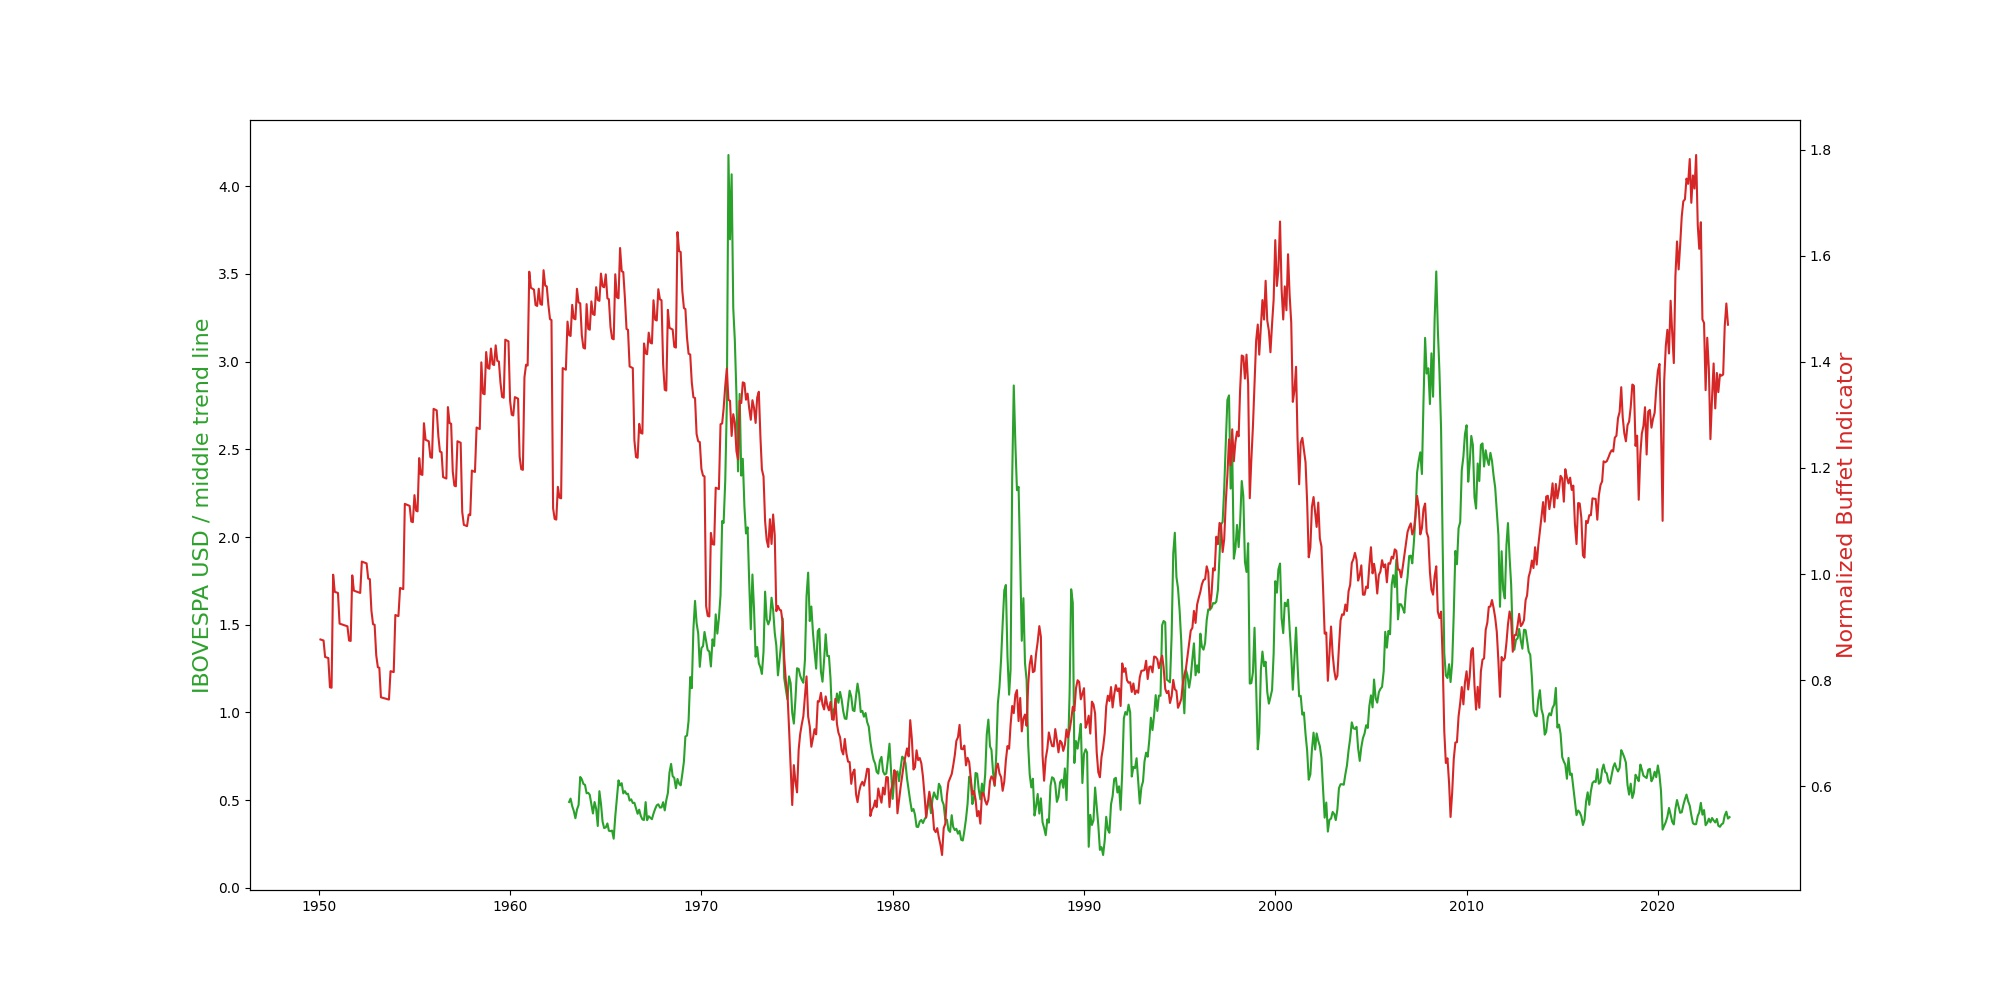
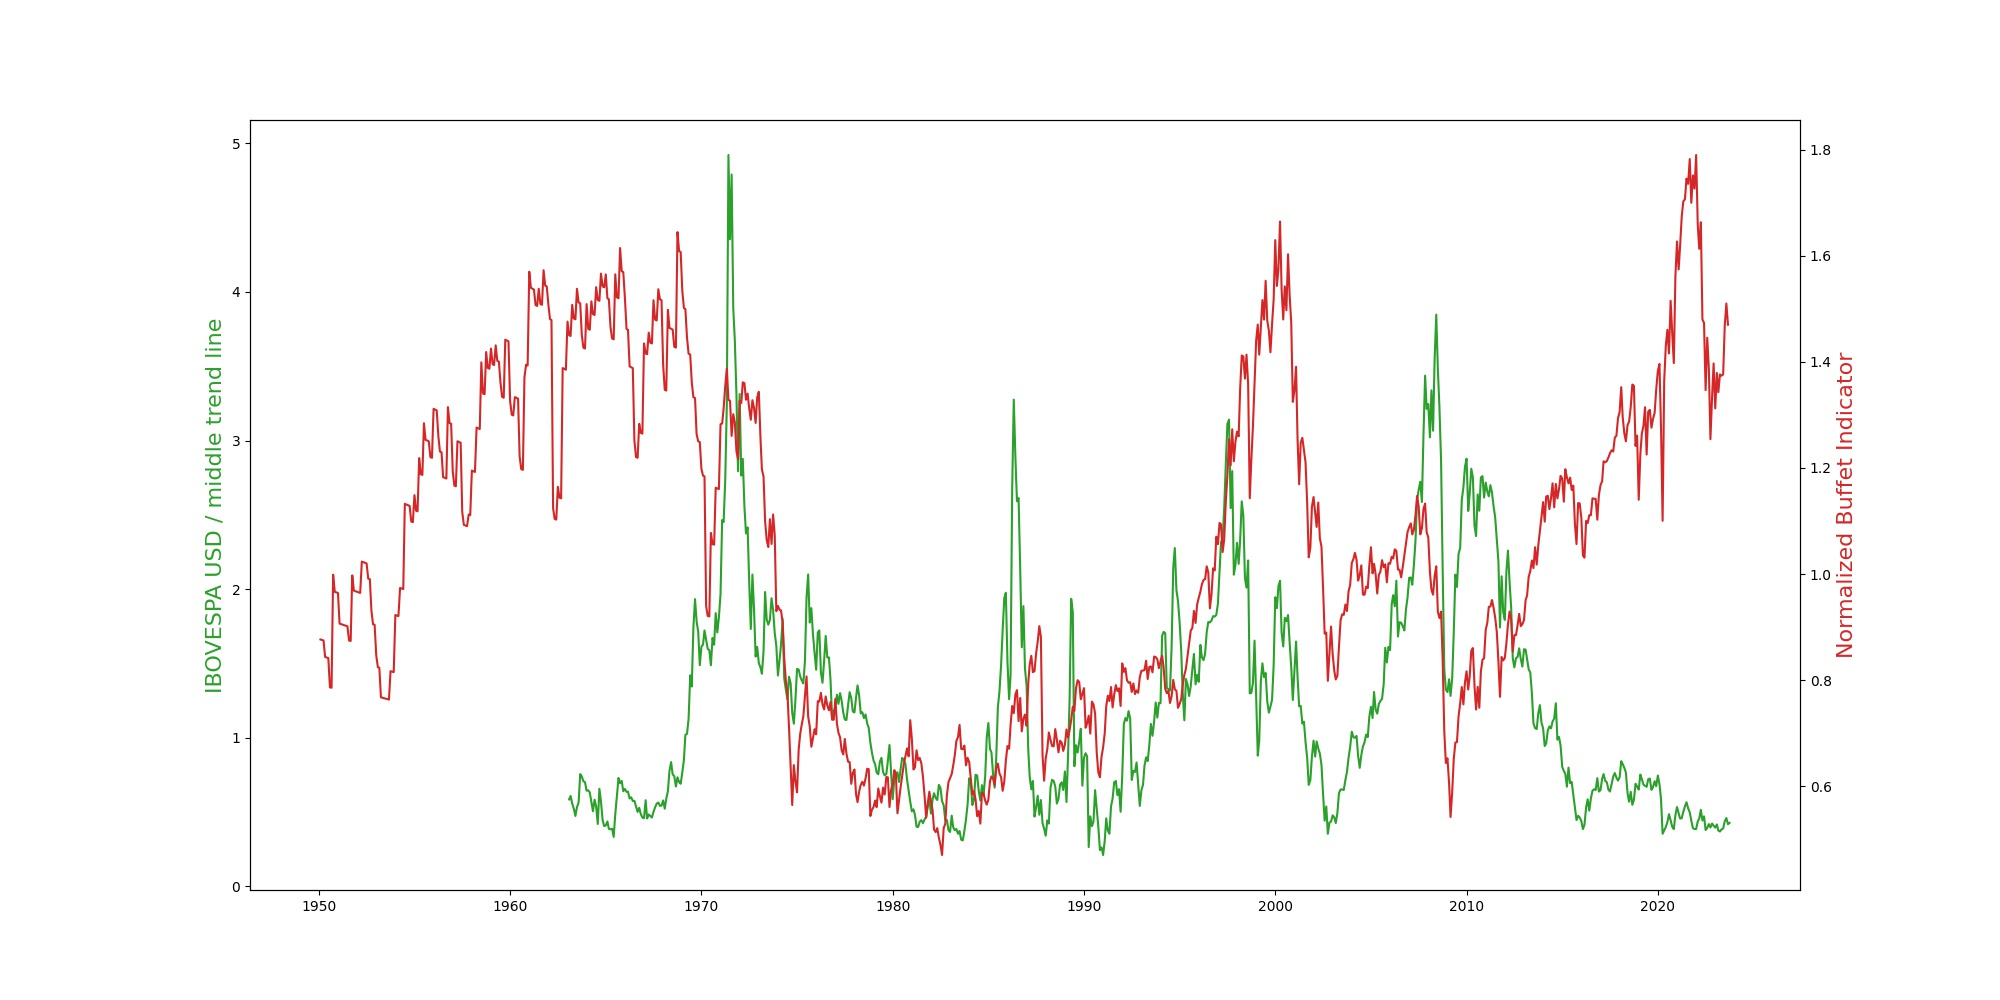
first commit

diff --git a/main.py b/main.py
@@ -1,20 +1,19 @@
 import matplotlib.pyplot as plt
-import numpy as np
 
-from buffet_indicator import get_buffet_indicator_norm
+from buffet_indicator import get_buffet_indicator_norm, get_index_average
 from ibov_usd import get_ibovusd, _get_trend_line
 
 if __name__ == '__main__':
     ibovusd = get_ibovusd()
-    ibovusd_middle_trend_line = _get_trend_line(ibovusd, _type='middle')
+    ibovusd_avg = get_index_average(ibovusd)
     buffet_indicator_norm = get_buffet_indicator_norm()
 
     font_size = 16
 
     fig, ax1 = plt.subplots(figsize=(20, 10))
     color = 'tab:green'
-    text = 'IBOVESPA USD / middle trend line'
-    ax1.plot(ibovusd.index, ibovusd / ibovusd_middle_trend_line, color=color, label=text)
+    text = 'IBOVESPA USD / average'
+    ax1.plot(ibovusd.index, ibovusd / ibovusd_avg, color=color, label=text)
     ax1.set_ylabel(text, color=color, fontsize=font_size)
 
     color = 'tab:red'
@@ -33,6 +32,7 @@ if __name__ == '__main__':
 
     ax.plot(ibovusd.index, ibovusd)
     ax.plot(ibovusd_top_trend_line.index, ibovusd_top_trend_line)
+    ax.plot(ibovusd_avg.index, ibovusd_avg)
     ax.plot(ibovusd_bottom_trend_line.index, ibovusd_bottom_trend_line)
 
     plt.yscale('log', base=10)

diff --git a/buffet_indicator.py b/buffet_indicator.py
@@ -11,8 +11,8 @@ def parse_datetime(timestamp):
     return datetime.utcfromtimestamp(timestamp / 1000)
 
 
-def get_index_average(index: pd.Series) -> pd.Series:
-    index_log = np.log(index)
+def get_index_average(series: pd.Series) -> pd.Series:
+    index_log = np.log(series)
 
     x = np.array(range(len(index_log))).reshape(-1, 1)
     y = index_log
@@ -22,7 +22,7 @@ def get_index_average(index: pd.Series) -> pd.Series:
 
     average = reg.predict(x)
 
-    return np.exp(average)
+    return pd.Series(data=np.exp(average), index=series.index)
 
 
 def get_gdp() -> pd.Series:
